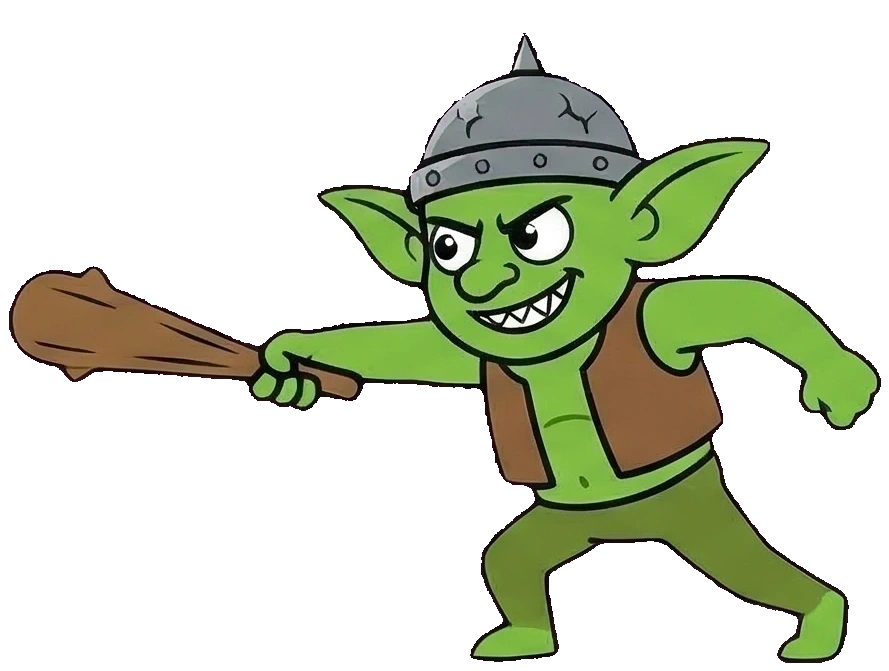
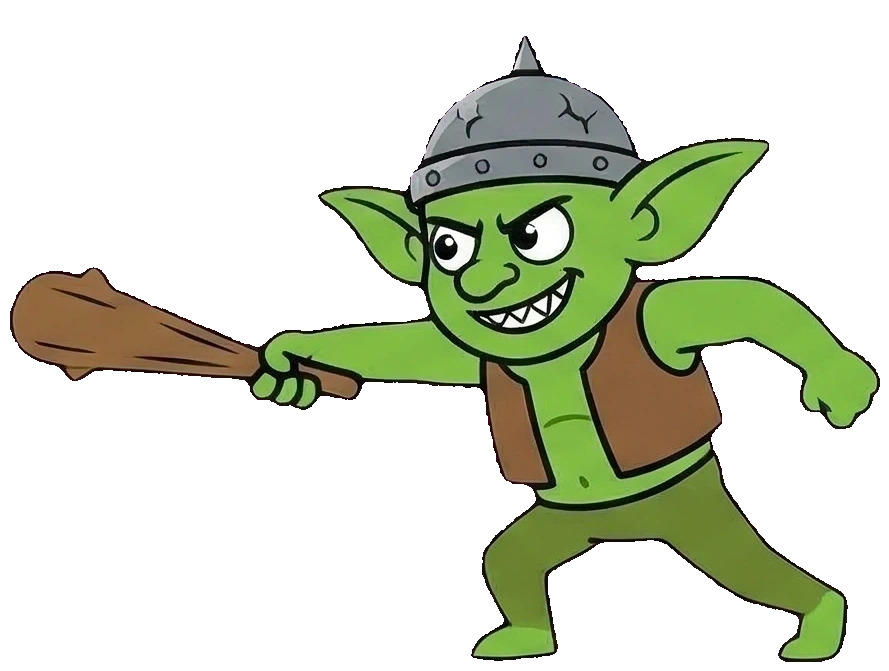
fix: remove chroma-key fringe with BFS flood-fill despill per character

diff --git a/scripts/split-sprites.py b/scripts/split-sprites.py
@@ -45,6 +45,36 @@ def remove_background(img_rgba: Image.Image, tolerance: int = 30) -> Image.Image
     return Image.fromarray(result, 'RGBA')
 
 
+def clean_edges(img: Image.Image, erode_px: int = 2) -> Image.Image:
+    """Binarize alpha then erode to remove chroma-key fringe."""
+    arr = np.array(img, dtype=np.uint8)
+    binary = (arr[:, :, 3] > 0).astype(np.uint8)
+    for _ in range(erode_px):
+        e = binary.copy()
+        e[:-1, :] = np.minimum(e[:-1, :], binary[1:, :])
+        e[1:,  :] = np.minimum(e[1:,  :], binary[:-1, :])
+        e[:, :-1] = np.minimum(e[:, :-1], binary[:, 1:])
+        e[:, 1:]  = np.minimum(e[:, 1:],  binary[:, :-1])
+        binary = e
+    arr[:, :, 3] = binary * 255
+    return Image.fromarray(arr, 'RGBA')
+
+
+def normalize_heights(out_folder: str, pose_names: list) -> None:
+    """Pad idle/attack/hit sprites at the top so all share the same canvas height."""
+    standing = [n for n in pose_names if not n.endswith('-dead')]
+    imgs = {n: Image.open(os.path.join(out_folder, f'{n}.webp')) for n in standing}
+    target_h = max(img.size[1] for img in imgs.values())
+    for name, img in imgs.items():
+        w, h = img.size
+        if h == target_h:
+            continue
+        padded = Image.new('RGBA', (w, target_h), (0, 0, 0, 0))
+        padded.paste(img, (0, target_h - h))
+        padded.save(os.path.join(out_folder, f'{name}.webp'), 'WEBP', quality=95)
+        print(f'  normalized {name}: {h}px → {target_h}px (padded top {target_h-h}px)')
+
+
 def crop_to_content(img: Image.Image, padding: int = 2) -> Image.Image:
     """Crop transparent padding, leave a small border."""
     bbox = img.getbbox()
@@ -76,12 +106,18 @@ def process_sheet(sheet_path, out_folder, pose_names):
         # Remove background
         cell_nobg = remove_background(cell, tolerance=28)
 
+        # Clean fringe: binarize + erode 2px
+        cell_clean = clean_edges(cell_nobg, erode_px=2)
+
         # Crop to content
-        cell_cropped = crop_to_content(cell_nobg, padding=2)
+        cell_cropped = crop_to_content(cell_clean, padding=2)
 
         out_path = os.path.join(out_folder, f'{name}.webp')
         cell_cropped.save(out_path, 'WEBP', quality=95)
         print(f'  {name}: {cell.size} → {cell_cropped.size} → {out_path}')
+
+    # Normalize idle/attack/hit heights so scale stays consistent in-game
+    normalize_heights(out_folder, pose_names)
 
 
 for sheet_path, out_folder, pose_names in SHEETS:
